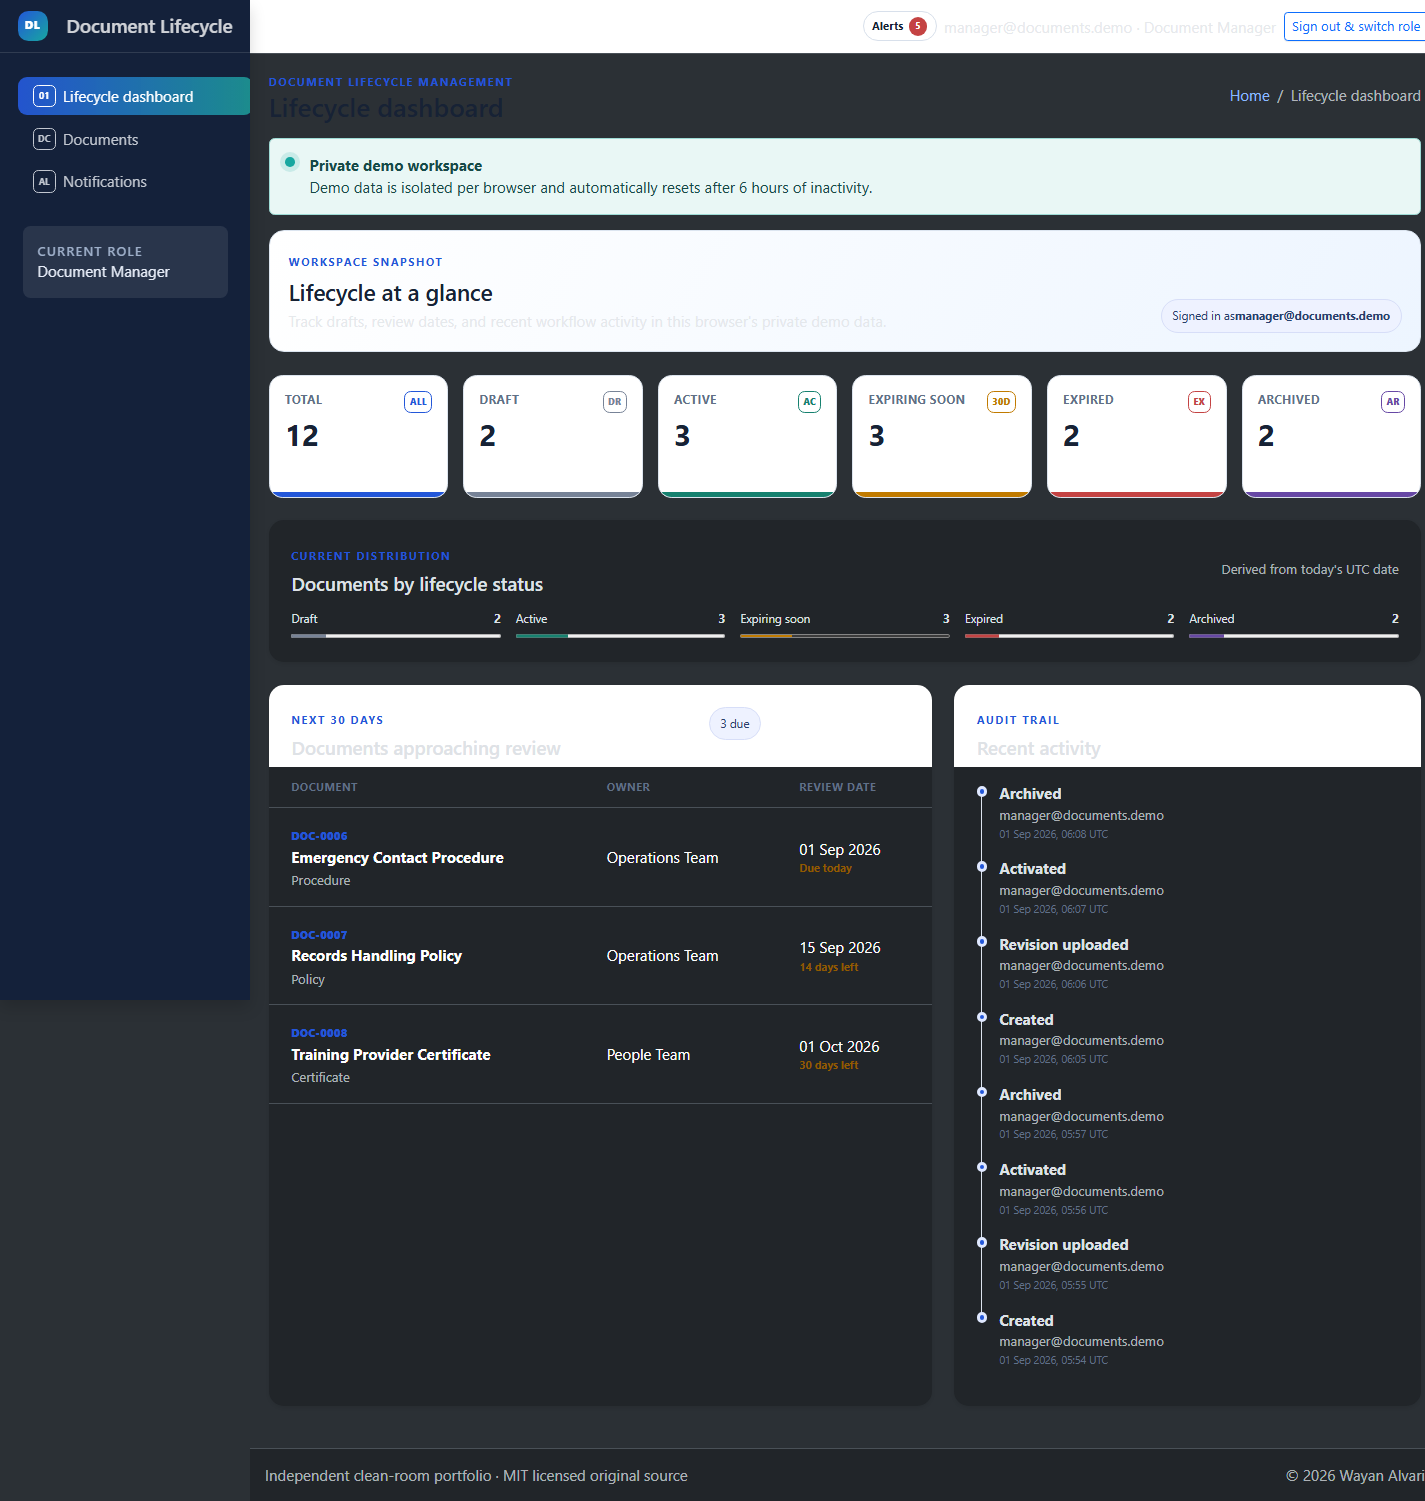
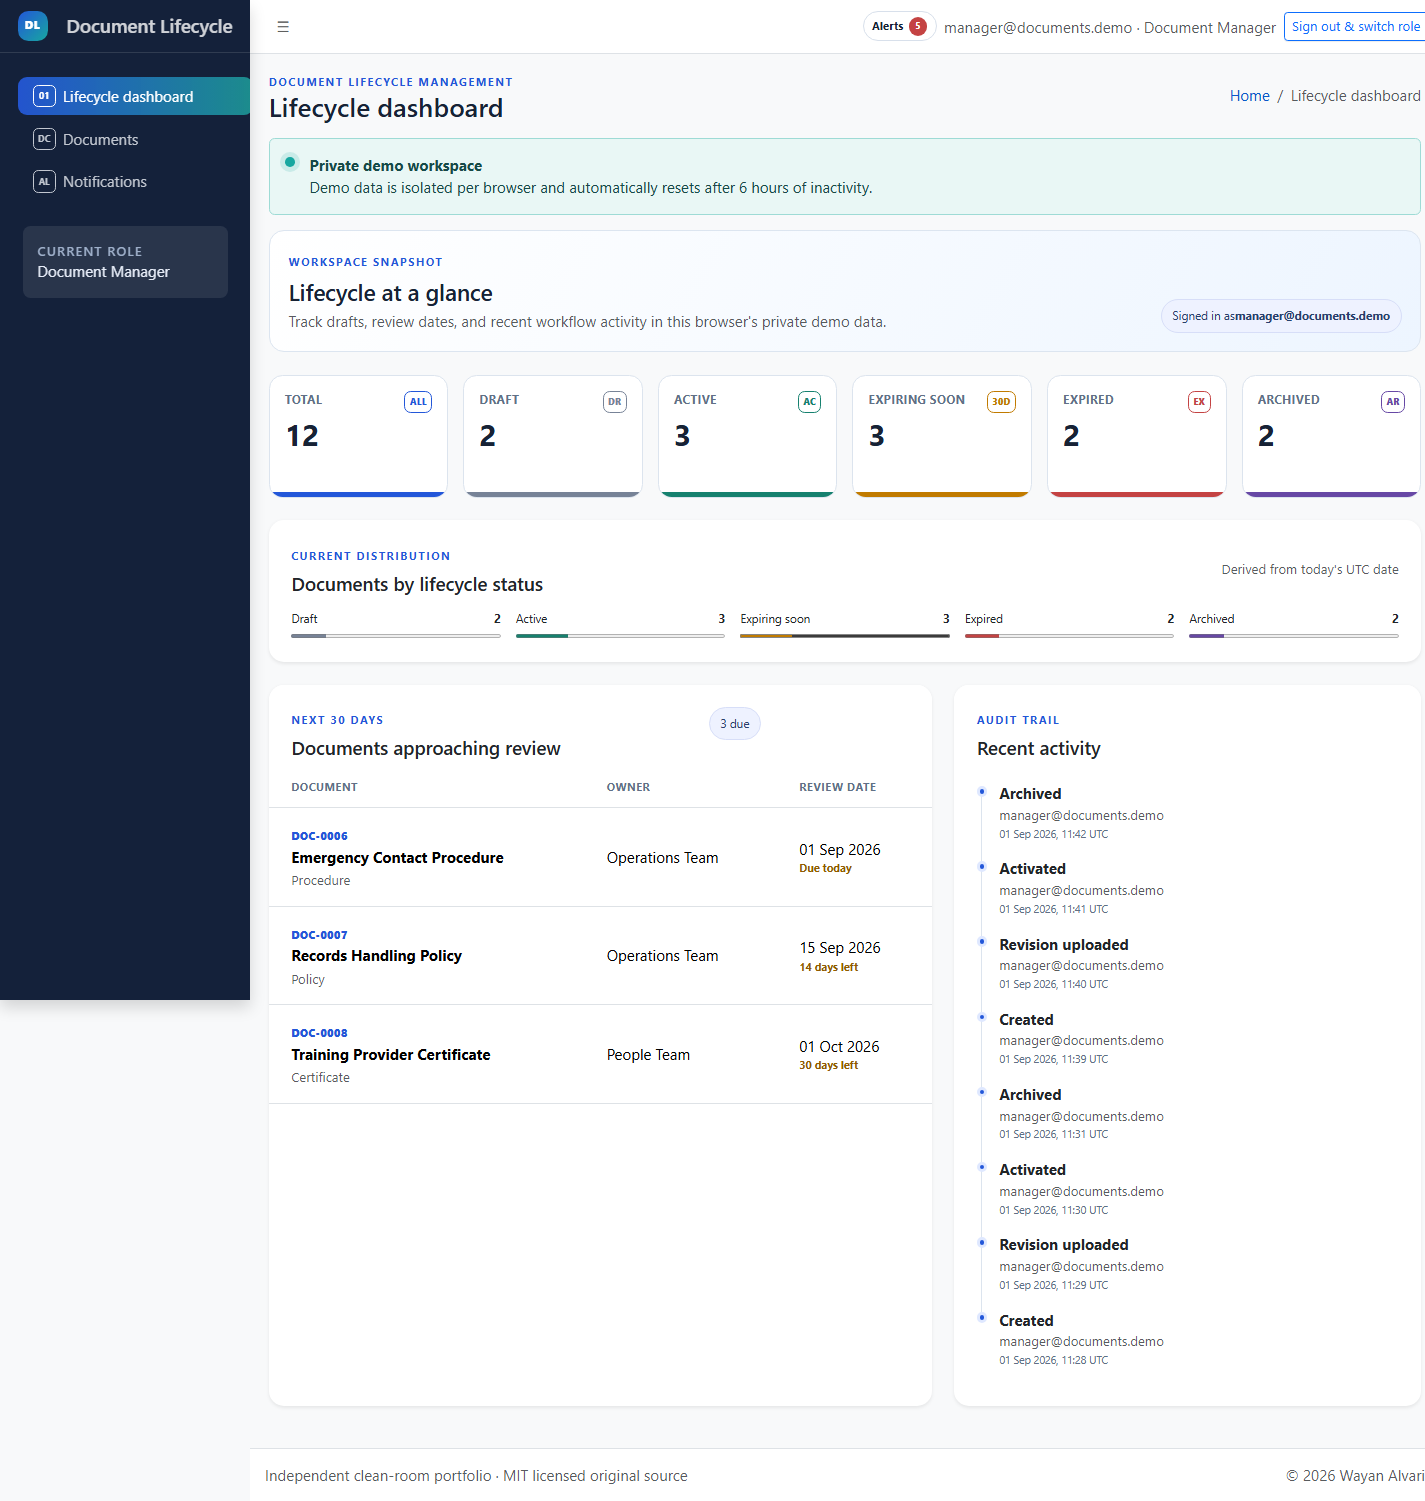
fix(ui): preserve accessible light application theme

diff --git a/src/DocumentLifecycle.Web/wwwroot/js/site.js b/src/DocumentLifecycle.Web/wwwroot/js/site.js
@@ -1,3 +1,12 @@
+const applicationTheme = "light";
+try {
+  localStorage.setItem("lte-theme", applicationTheme);
+} catch {
+  // The explicit document theme still works when browser storage is unavailable.
+}
+document.documentElement.setAttribute("data-bs-theme", applicationTheme);
+document.documentElement.style.colorScheme = applicationTheme;
+
 document.addEventListener("DOMContentLoaded", () => {
   const emailInput = document.querySelector("#Email");
   const passwordInput = document.querySelector("#Password");
